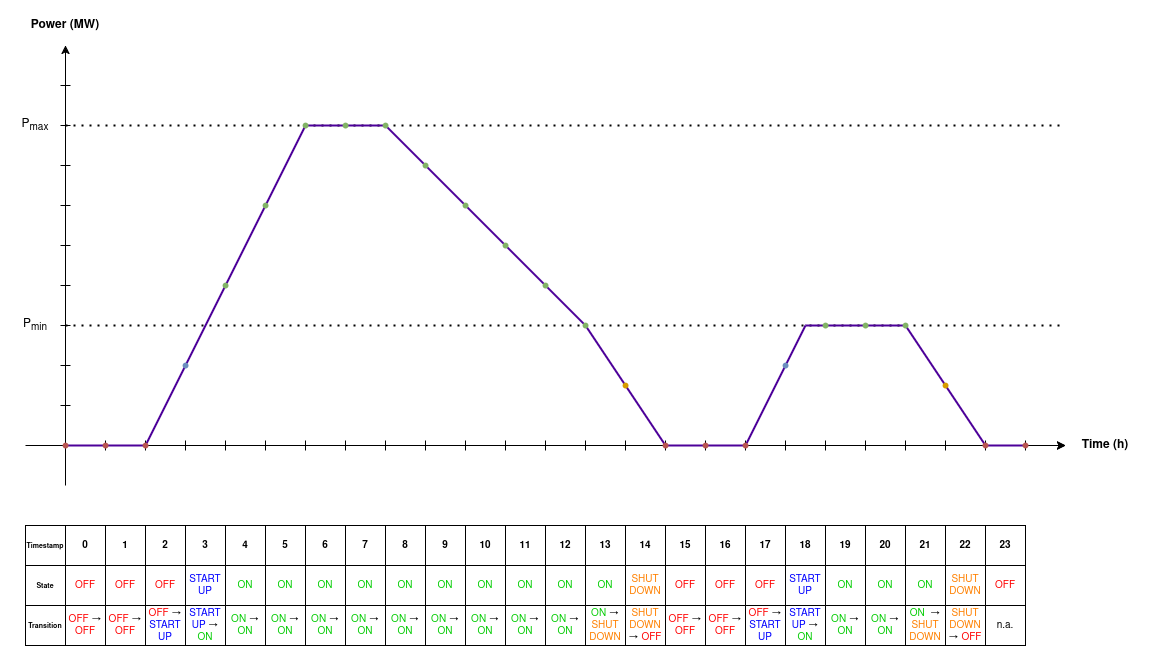
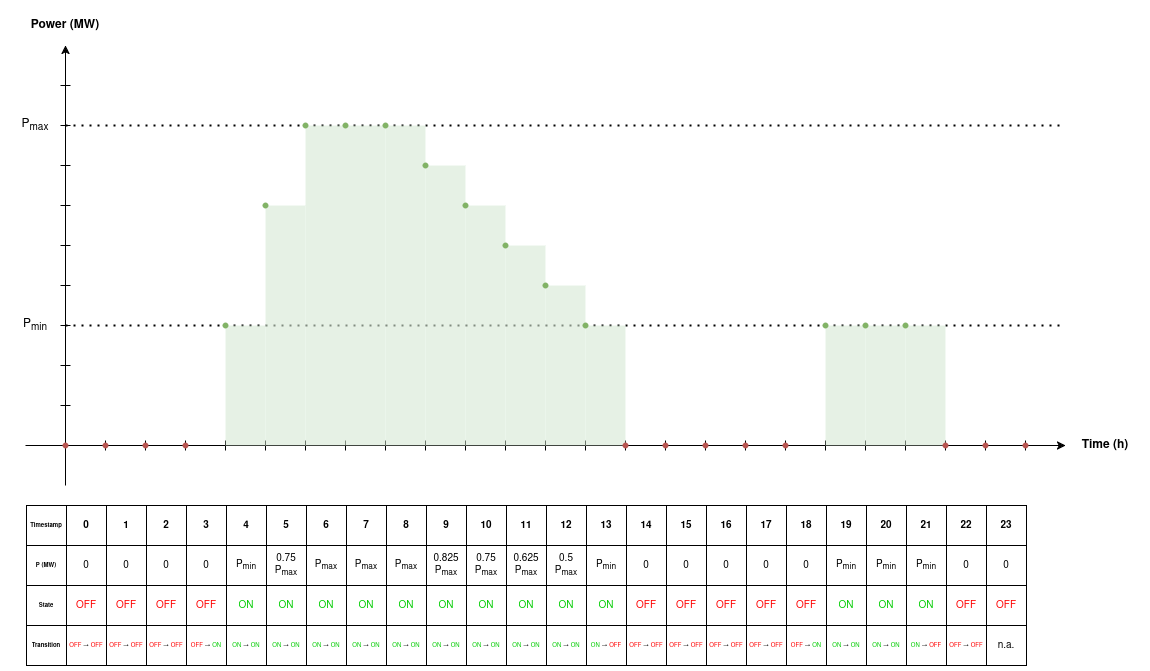
update figures

diff --git a/docs/conf.py b/docs/conf.py
@@ -12,6 +12,7 @@
 #
 import os
 import sys
+from datetime import datetime
 
 # Path to python sources, for doc generation on readthedocs
 source_path = os.path.abspath('..')
@@ -22,7 +23,7 @@ print(f'appended {source_path}')
 # -- Project information -----------------------------------------------------
 
 project = 'PowSyBl Open RAO'
-copyright = '2024, RTE (http://www.rte-france.com)'
+copyright = f'2024-{datetime.now().year}, RTE (http://www.rte-france.com)'
 
 
 # -- General configuration ---------------------------------------------------

diff --git a/docs/algorithms/castor/linear-problem/inter-temporal-constraints/generator-constraints-filler.md b/docs/algorithms/castor/linear-problem/inter-temporal-constraints/generator-constraints-filler.md
@@ -12,16 +12,12 @@ are:
 - the **lag time**, which is the time required by the generator to constantly ramp down from $P_{\min}$ to a complete
   shutdown.
 
-The generator then operates in four distinct states depending on its current power, based on the aforementioned
+The generator then operates in two distinct states depending on its current power, based on the aforementioned
 characteristics:
 
 - it is **off** whenever its power is null;
 - it is **on** whenever its power is greater or equal than $P_{\min}$ (and lower or equal than $P_{\max}$). In that
   range, the power is somewhat free to change (with only possible power gradient constraints);
-- it is **starting up** if its power is increasing from zero to $P_{\min}$, at a fixed pace of $\frac{P_{\min}}{LEAD}$ (
-  in MW/h);
-- it is **shutting down** if its power is decreasing from $P_{\min}$ to zero, at a fixed pace of $\frac{P_{\min}}{LAG}$ (
-  in MW/h).
 
 ![Generator States](../../../../_static/img/generator-states.png){.forced-white-background}
 
@@ -113,16 +109,18 @@ $$\delta_{\textcolor{red}{\text{OFF}}}^{gen}(g,s,t + 1) = T_{\textcolor{red}{\te
 
 $$\delta_{\textcolor{green}{\text{ON}}}^{gen}(g,s,t + 1) = T_{\textcolor{green}{\text{ON}} \to \textcolor{green}{\text{ON}}}(g,s,t) + T_{\textcolor{red}{\text{OFF}} \to \textcolor{green}{\text{ON}}}(g,s,t)$$
 
-### Warm-Up
+### Start-Up
 
-When the generator is turned on, it has a warm-up time called _lead time_ during which the power remains null before to
+> In the following, we denote $\Delta_{t \rightarrow t'}$ the time elapsed between to timestamps $t$ and $t'$.
+
+When the generator is started up, it has a warm-up time called _lead time_ during which the power remains null before to
 step up to $P_{\min}$.
 
 $$\forall t' \leq t \text{ such that } \Delta_{t' \rightarrow t} < LEAD(g), \; T_{\textcolor{red}{\text{OFF}} \to \textcolor{green}{\text{ON}}}(g,s,t) \leq \delta_{\textcolor{red}{\text{OFF}}}^{gen}(g,s,t')$$
 
-### Cool-Down
+### Shut-Down
 
-Similarly, when the generator is turned off, it has a cool-down time called _lag time_ during which the power remains
+Similarly, when the generator is shut off, it has a cool-down time called _lag time_ during which the power remains
 null and the generator cannot be tuned on again.
 
 $$\forall t' \geq t \text{ such that } \Delta_{t \rightarrow t'} < LAG(g), \; T_{\textcolor{green}{\text{ON}} \to \textcolor{red}{\text{OFF}}}(g,s,t) \leq \delta_{\textcolor{red}{\text{OFF}}}^{gen}(g,s,t')$$
@@ -132,12 +130,54 @@ $$\forall t' \geq t \text{ such that } \Delta_{t \rightarrow t'} < LAG(g), \; T_
 The power variation and the state transitions are strongly entangled and constrain one another. Depending on the state
 transition, the power variation $P(g,s,t+1) - P(g,s,t)$ is bounded differently.
 
+::::{tabs}
+:::{group-tab} No lead, no lag
+With no lead time and no lag time, the power is free to move between $P_{\min}$ and $P_{\max}$ even when the generator
+is started up or shut down during the timestamp, as long as the power variation respects the power gradients.
+
+$$\begin{align*}
+- \epsilon_{P}^{\text{OFF}} T_{\textcolor{red}{\text{OFF}} \to \textcolor{red}{\text{OFF}}}(g,s,t) & & \epsilon_{P}^{\text{OFF}} T_{\textcolor{red}{\text{OFF}} \to \textcolor{red}{\text{OFF}}}(g,s,t) \\
++ \left ( P_{\min} - \epsilon_{P}^{\text{OFF}} \right ) T_{\textcolor{red}{\text{OFF}} \to \textcolor{green}{\text{ON}}}(g,s,t) & & \left ( P_{\min} + \nabla^{+}(g) \Delta_{\tau} \right ) T_{\textcolor{red}{\text{OFF}} \to \textcolor{green}{\text{ON}}}(g,s,t) \\
++ \nabla^{-}(g) \Delta_{\tau} T_{\textcolor{green}{\text{ON}} \to \textcolor{green}{\text{ON}}}(g,s,t) & \leq P(g,s,t + 1) - P(g,s,t) \leq & + \nabla^{+}(g) \Delta_{\tau} T_{\textcolor{green}{\text{ON}} \to \textcolor{green}{\text{ON}}}(g,s,t) \\
+- \left ( P_{\min} - \nabla^{-}(g) \Delta_{\tau} \right) T_{\textcolor{green}{\text{ON}} \to \textcolor{red}{\text{OFF}}}(g,s,t) & & - \left ( P_{\min} - \epsilon_{P}^{\text{OFF}} \right ) T_{\textcolor{green}{\text{ON}} \to \textcolor{red}{\text{OFF}}}(g,s,t)
+\end{align*}$$
+:::
+:::{group-tab} Lead, no lag
+With a lead time, the generator must first step up to $P_{\min}$ before to be operated between $P_{\min}$ and $P_{\max}$
+under the power gradient constraints. However, as it as no lag time, the same behavior does not apply when shutting it
+down.
+
+$$\begin{align*}
+- \epsilon_{P}^{\text{OFF}} T_{\textcolor{red}{\text{OFF}} \to \textcolor{red}{\text{OFF}}}(g,s,t) & & \epsilon_{P}^{\text{OFF}} T_{\textcolor{red}{\text{OFF}} \to \textcolor{red}{\text{OFF}}}(g,s,t) \\
++ \left ( P_{\min} - \epsilon_{P}^{\text{OFF}} \right ) T_{\textcolor{red}{\text{OFF}} \to \textcolor{green}{\text{ON}}}(g,s,t) & & P_{\min} T_{\textcolor{red}{\text{OFF}} \to \textcolor{green}{\text{ON}}}(g,s,t) \\
++ \nabla^{-}(g) \Delta_{\tau} T_{\textcolor{green}{\text{ON}} \to \textcolor{green}{\text{ON}}}(g,s,t) & \leq P(g,s,t + 1) - P(g,s,t) \leq & + \nabla^{+}(g) \Delta_{\tau} T_{\textcolor{green}{\text{ON}} \to \textcolor{green}{\text{ON}}}(g,s,t) \\
+- \left ( P_{\min} - \nabla^{-}(g) \Delta_{\tau} \right) T_{\textcolor{green}{\text{ON}} \to \textcolor{red}{\text{OFF}}}(g,s,t) & & - \left ( P_{\min} - \epsilon_{P}^{\text{OFF}} \right ) T_{\textcolor{green}{\text{ON}} \to \textcolor{red}{\text{OFF}}}(g,s,t)
+\end{align*}$$
+:::
+:::{group-tab} No lead, lag
+With a lag time, the generator must step down from $P_{\min}$ to 0 instead of being shut down from any power value above
+$P_{\min}$. However, as it as no lead time, no power stepping up to $P_{\min}$ is required when starting it up.
+
+$$\begin{align*}
+- \epsilon_{P}^{\text{OFF}} T_{\textcolor{red}{\text{OFF}} \to \textcolor{red}{\text{OFF}}}(g,s,t) & & \epsilon_{P}^{\text{OFF}} T_{\textcolor{red}{\text{OFF}} \to \textcolor{red}{\text{OFF}}}(g,s,t) \\
++ \left ( P_{\min} - \epsilon_{P}^{\text{OFF}} \right ) T_{\textcolor{red}{\text{OFF}} \to \textcolor{green}{\text{ON}}}(g,s,t) & & \left ( P_{\min} + \nabla^{+}(g) \Delta_{\tau} \right ) T_{\textcolor{red}{\text{OFF}} \to \textcolor{green}{\text{ON}}}(g,s,t) \\
++ \nabla^{-}(g) \Delta_{\tau} T_{\textcolor{green}{\text{ON}} \to \textcolor{green}{\text{ON}}}(g,s,t) & \leq P(g,s,t + 1) - P(g,s,t) \leq & + \nabla^{+}(g) \Delta_{\tau} T_{\textcolor{green}{\text{ON}} \to \textcolor{green}{\text{ON}}}(g,s,t) \\
+- P_{\min} T_{\textcolor{green}{\text{ON}} \to \textcolor{red}{\text{OFF}}}(g,s,t) & & - \left ( P_{\min} - \epsilon_{P}^{\text{OFF}} \right ) T_{\textcolor{green}{\text{ON}} \to \textcolor{red}{\text{OFF}}}(g,s,t)
+\end{align*}$$
+:::
+:::{group-tab} Lead and lag
+With a lead time, the generator must first step up to $P_{\min}$ before to be operated between $P_{\min}$ and $P_{\max}$
+under the power gradient constraints. Besides, with a lag time, the generator must step down from $P_{\min}$ to 0
+instead of being shut down from any power value above $P_{\min}$.
+
 $$\begin{align*}
 - \epsilon_{P}^{\text{OFF}} T_{\textcolor{red}{\text{OFF}} \to \textcolor{red}{\text{OFF}}}(g,s,t) & & \epsilon_{P}^{\text{OFF}} T_{\textcolor{red}{\text{OFF}} \to \textcolor{red}{\text{OFF}}}(g,s,t) \\
 + \left ( P_{\min} - \epsilon_{P}^{\text{OFF}} \right ) T_{\textcolor{red}{\text{OFF}} \to \textcolor{green}{\text{ON}}}(g,s,t) & & P_{\min} T_{\textcolor{red}{\text{OFF}} \to \textcolor{green}{\text{ON}}}(g,s,t) \\
 + \nabla^{-}(g) \Delta_{\tau} T_{\textcolor{green}{\text{ON}} \to \textcolor{green}{\text{ON}}}(g,s,t) & \leq P(g,s,t + 1) - P(g,s,t) \leq & + \nabla^{+}(g) \Delta_{\tau} T_{\textcolor{green}{\text{ON}} \to \textcolor{green}{\text{ON}}}(g,s,t) \\
 - P_{\min} T_{\textcolor{green}{\text{ON}} \to \textcolor{red}{\text{OFF}}}(g,s,t) & & - \left ( P_{\min} - \epsilon_{P}^{\text{OFF}} \right ) T_{\textcolor{green}{\text{ON}} \to \textcolor{red}{\text{OFF}}}(g,s,t)
 \end{align*}$$
+:::
+::::
 
 ### Injection to generator power constraint
 
